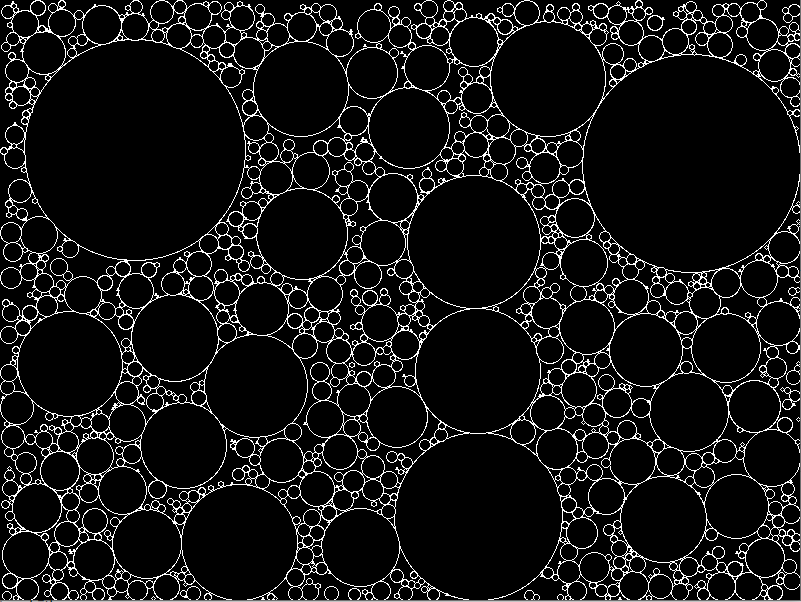
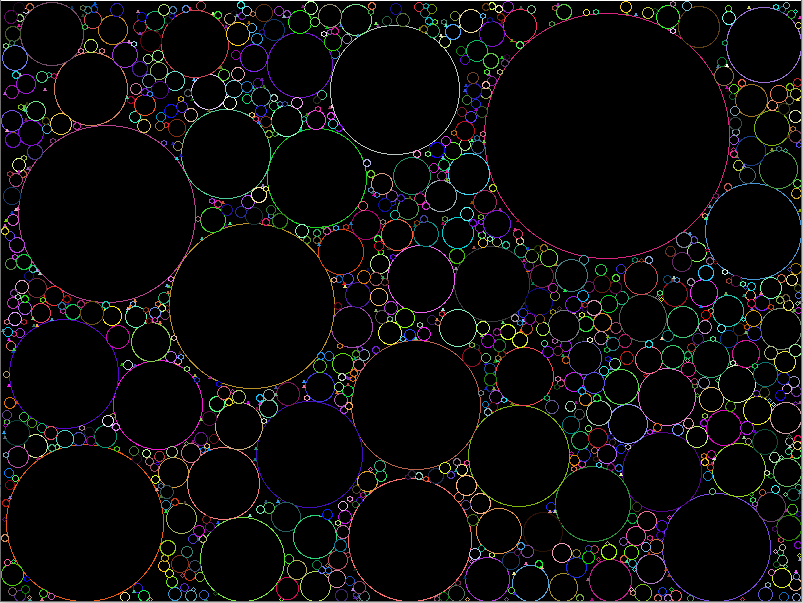
random color of outline

Changed region(s): [[0.0, 0.0, 1.0, 1.0], [0.4994, 0.1196, 0.5306, 0.1495], [0.0624, 0.3887, 0.0936, 0.4186]]

diff --git a/CirclePacking/draw.cpp b/CirclePacking/draw.cpp
@@ -75,8 +75,13 @@ sf::CircleShape* generateCircle(float x, float y, const std::vector<sf::CircleSh
             break;
         }
     }
+
+    float r { generateRandomNumber(255) };
+    float g { generateRandomNumber(255) };
+    float b { generateRandomNumber(255) };
+
     circle->setFillColor(sf::Color(0, 0, 0));
-    circle->setOutlineColor(sf::Color(255, 255, 255));
+    circle->setOutlineColor(sf::Color(r, g, b));
     circle->setOutlineThickness(1.f);
     circle->setPointCount(static_cast<int>(radius*3));  // make circle more smooth
     return circle;
